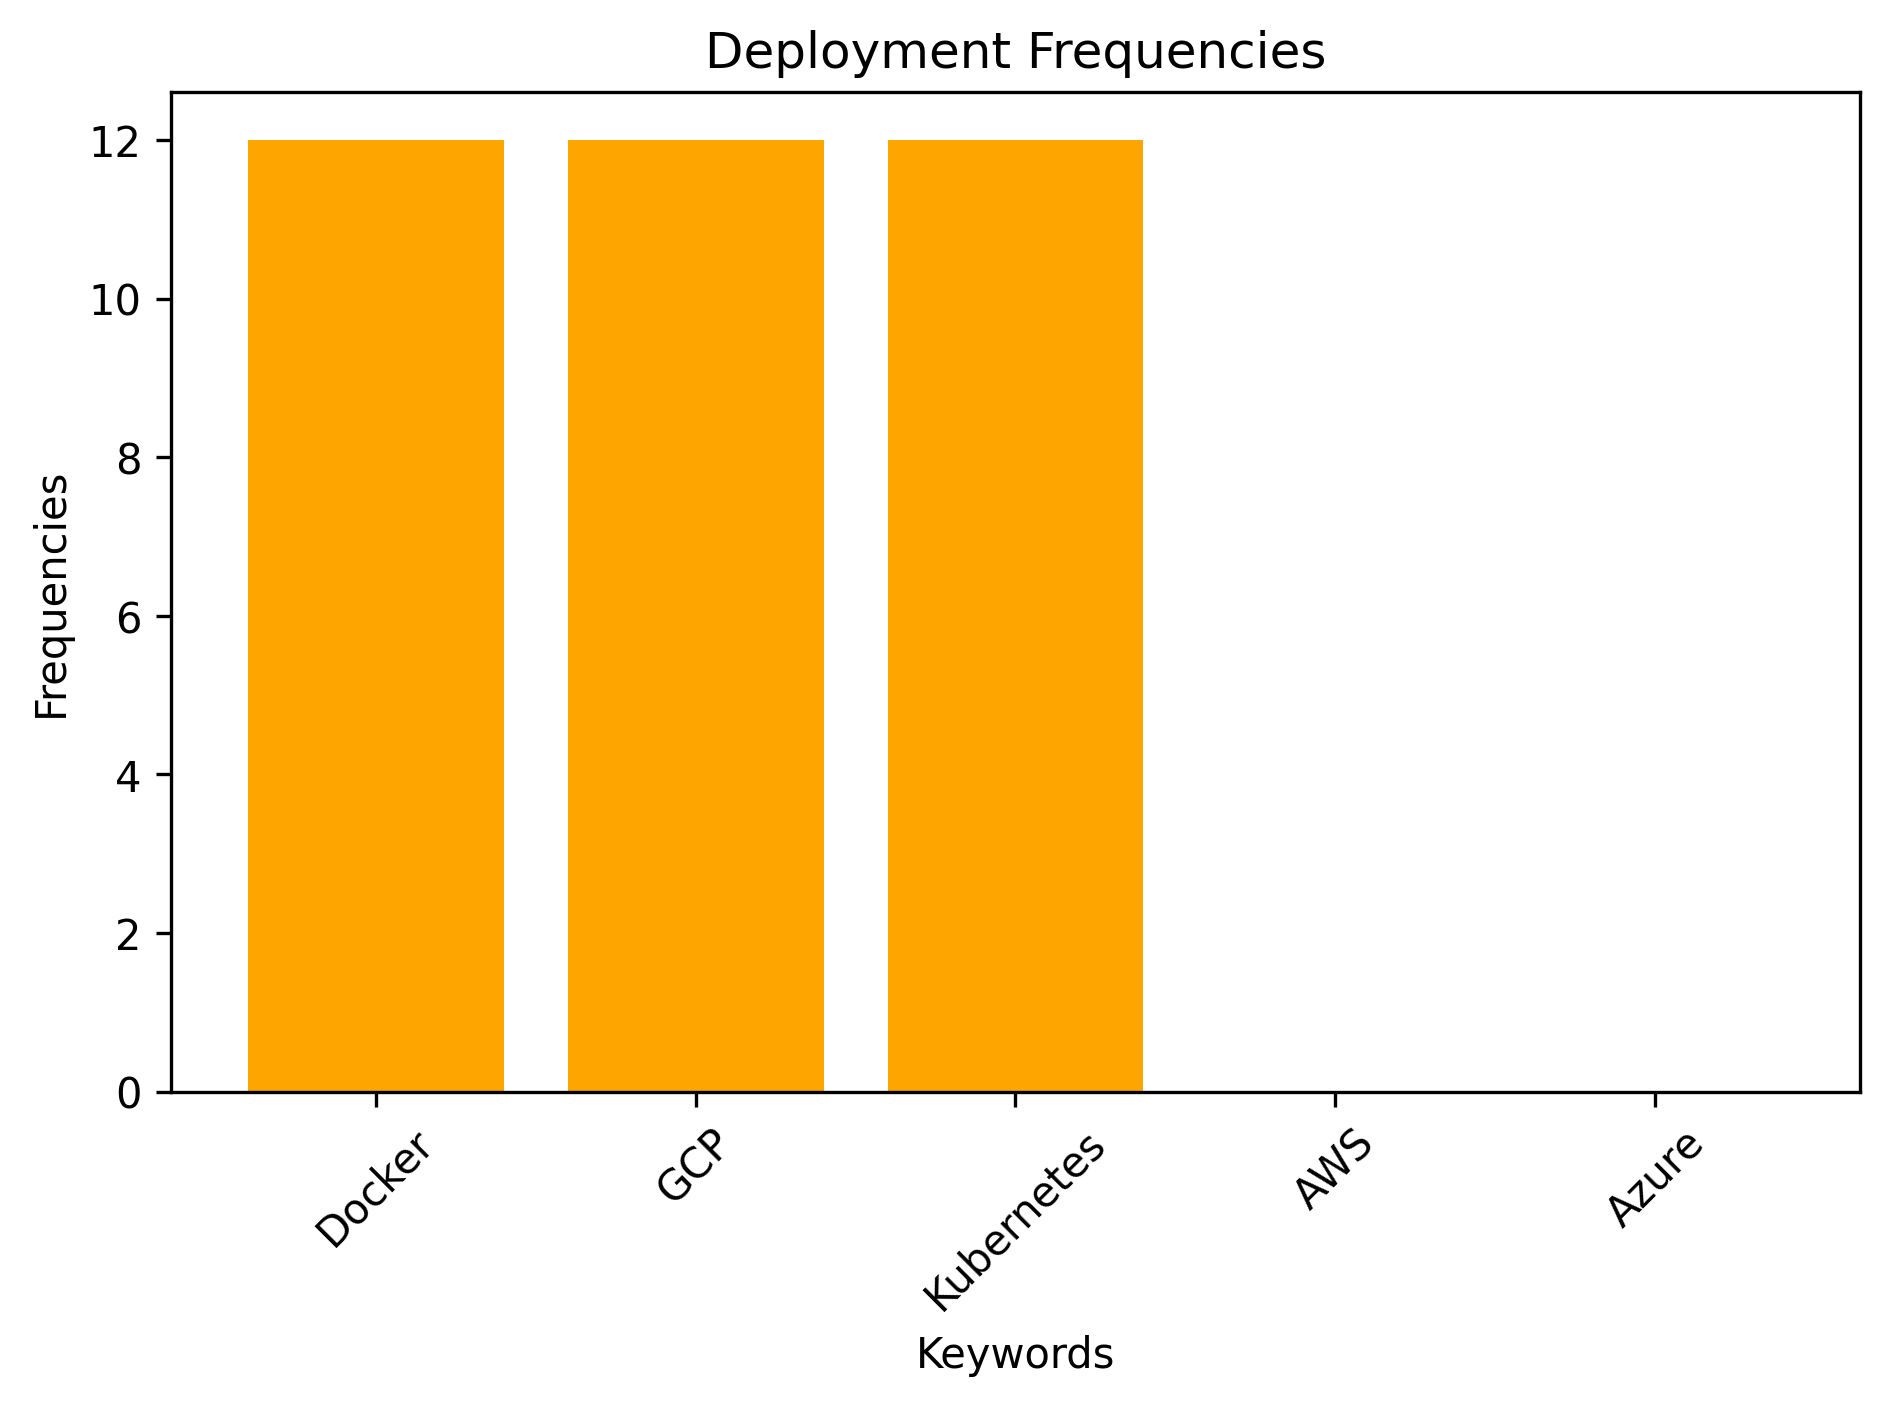
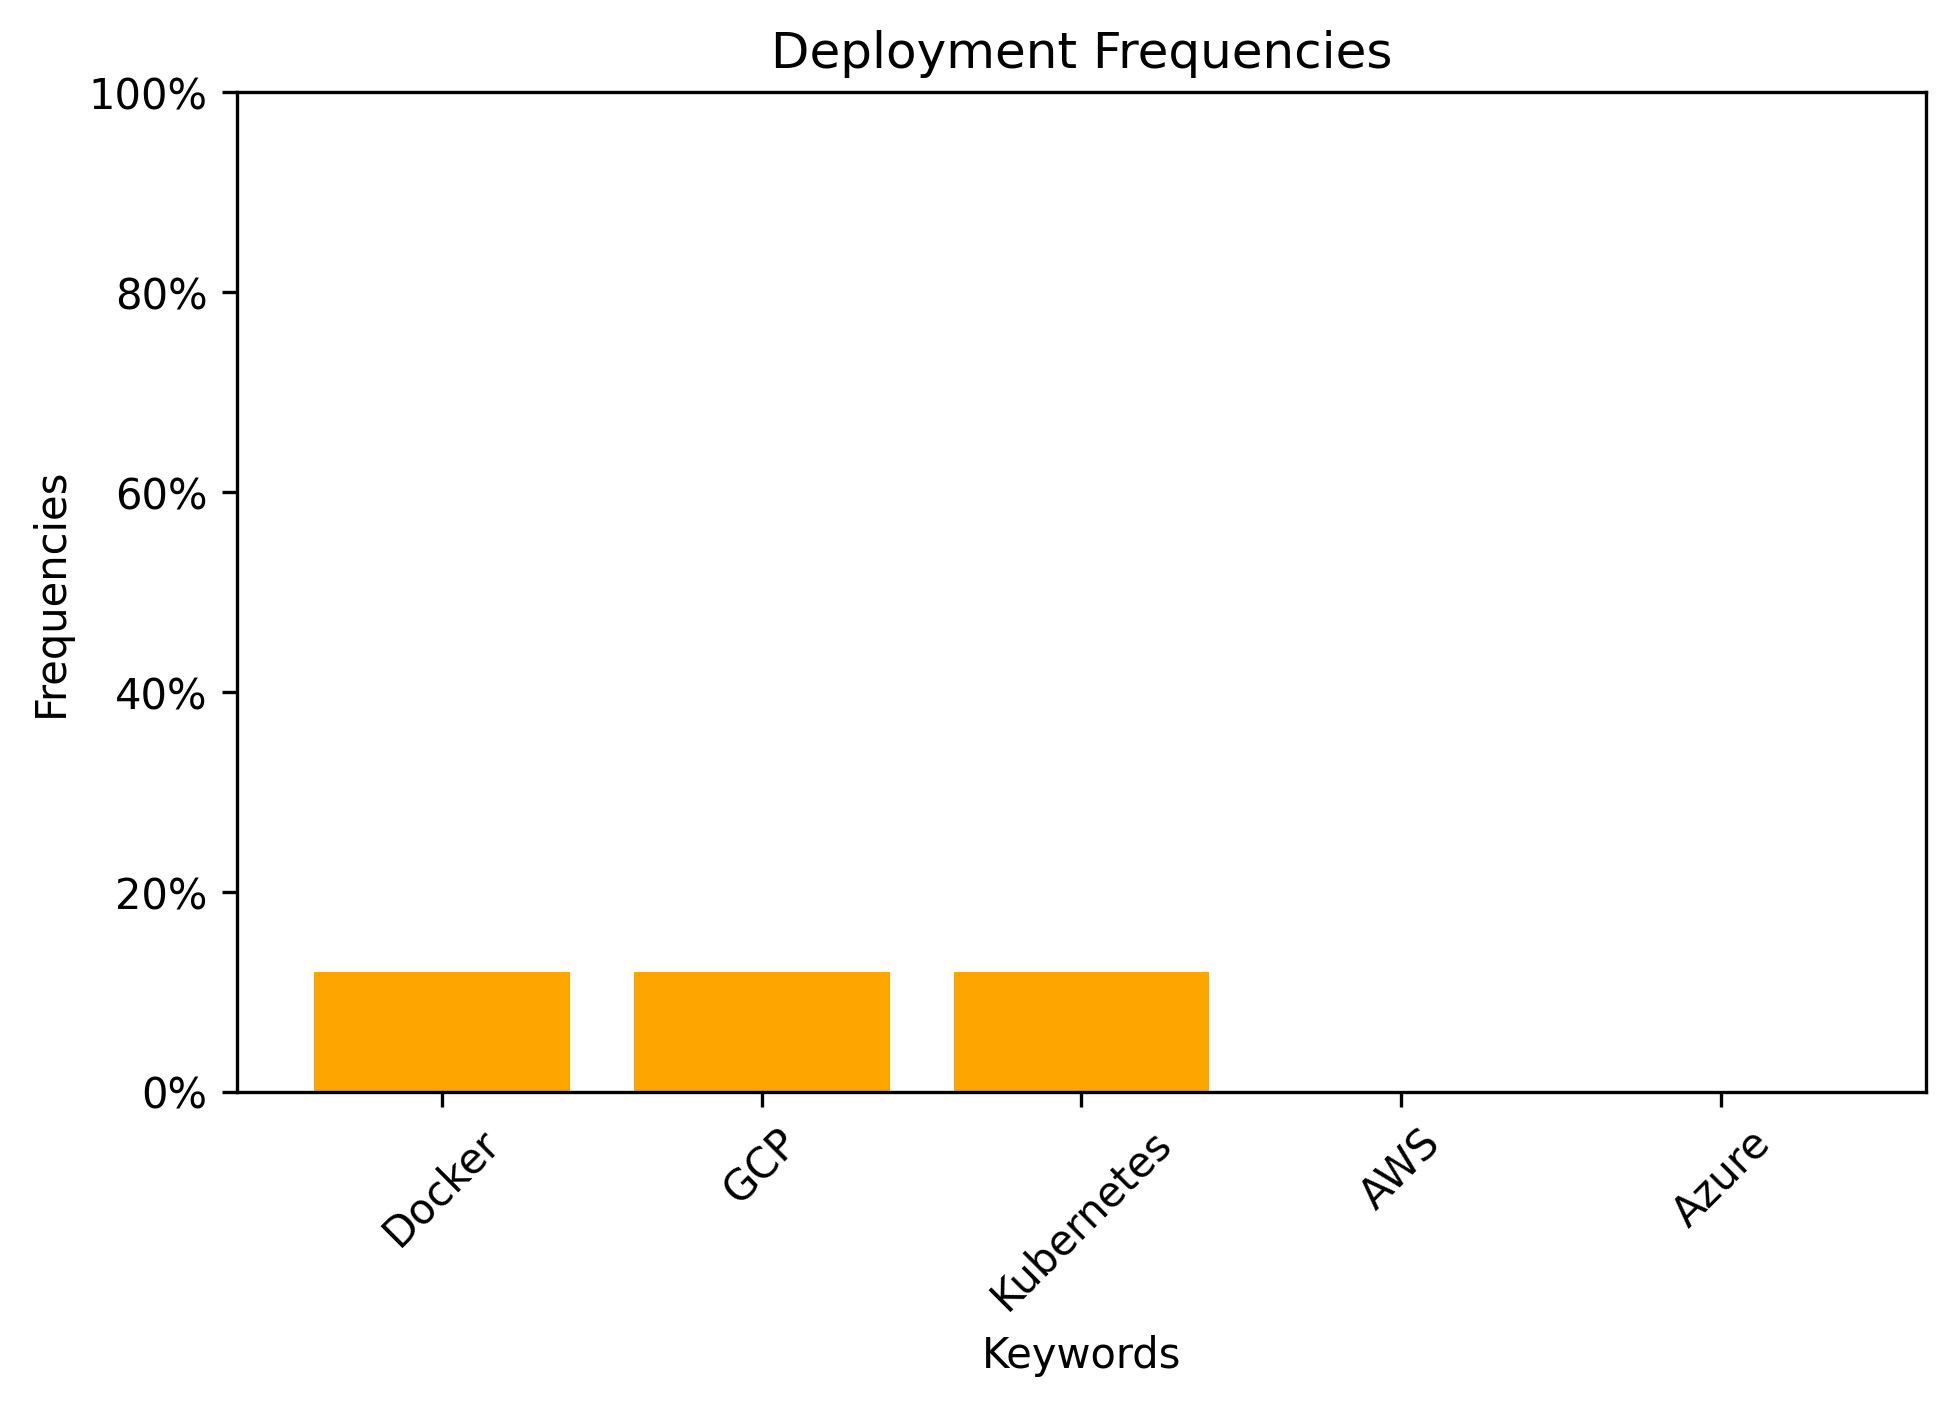
Ratios now displayed with proper formatting: percent on scale of 0 - 100

diff --git a/scraper.py b/scraper.py
@@ -2,6 +2,7 @@ from bs4 import BeautifulSoup
 import requests
 import csv
 import matplotlib.pyplot as plt
+import matplotlib.ticker as mtick
 import re
 import string
 import os
@@ -116,6 +117,8 @@ def plot_bar():
         plt.ylabel("Frequencies")
         plt.xticks(rotation=45)
         plt.tight_layout()
+        plt.ylim(0, 100)
+        plt.gca().yaxis.set_major_formatter(mtick.PercentFormatter(xmax=100))
         os.makedirs("figs", exist_ok=True)
         plt.savefig(f"figs/{name.lower()}_ratio_frequency_plot.png", dpi=300, bbox_inches="tight")
         
